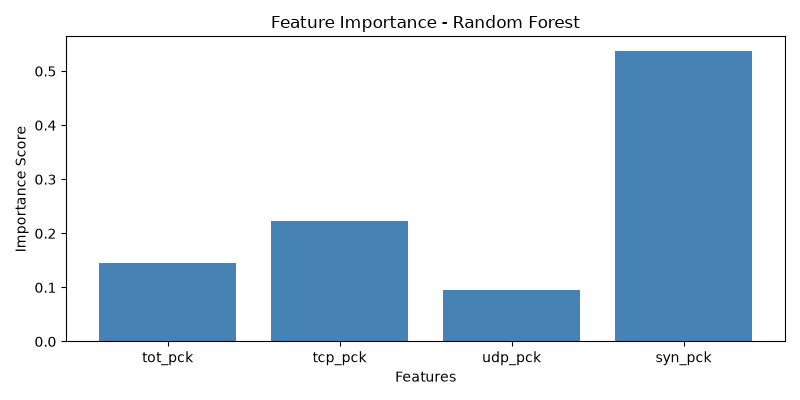
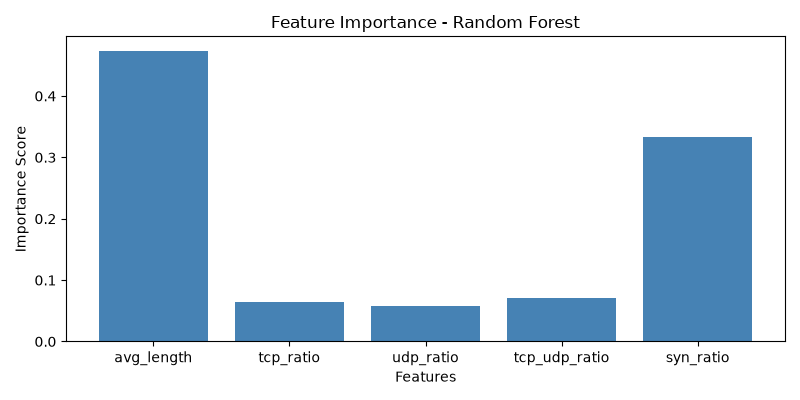
update: control plane function

diff --git a/control_plane/sdn_controller.py b/control_plane/sdn_controller.py
@@ -3,7 +3,10 @@ import threading
 import time
 import os
 import csv
+import socket
 from datetime import datetime
+from collections import Counter
+from scapy.all import sniff, IP, TCP
 
 from scapy_headers import DDoSReport
 from ml_pipeline.predict import TrafficPredictor
@@ -11,7 +14,6 @@ from ml_pipeline.predict import TrafficPredictor
 CONTROLLER_IP = '0.0.0.0'
 CONTROLLER_PORT = 50000
 
-# 🔴 BIẾN ĐIỀU KHIỂN THU THẬP DATASET 🔴
 # Đổi thành 'Benign' khi chạy traffic sạch. Đổi thành 'Syn' khi bật hping3.
 CURRENT_SCENARIO = 'Benign' 
 # Đổi thành False nếu bạn đã thu thập đủ data và chỉ muốn Controller chạy AI bảo vệ
@@ -23,9 +25,6 @@ protected_lock = threading.Lock()
 
 predictor = TrafficPredictor(model_path='ml_pipeline/random_forest.pkl', time_window=1.0, attack_thresh=0.6)
 
-# ════════════════════════════════════════════════════════════
-# PHẦN 1: HÀM HỖ TRỢ (GHI DATASET & RATE LIMIT)
-# ════════════════════════════════════════════════════════════
 def log_to_csv(report_dict, label):
     """Ghi trực tiếp Telemetry từ Switch ra file CSV để làm Dataset"""
     # Đảm bảo thư mục dataset tồn tại
@@ -37,10 +36,11 @@ def log_to_csv(report_dict, label):
         writer = csv.writer(f)
         # Ghi header nếu file mới
         if not file_exists:
-            writer.writerow(['tot_pck', 'tcp_pck', 'udp_pck', 'syn_pck', 'Label'])
+            writer.writerow(['tot_pck', 'tot_bytes', 'tcp_pck', 'udp_pck', 'syn_pck', 'Label'])
             
         writer.writerow([
             report_dict['tot_pck'], 
+            report_dict['tot_bytes'],
             report_dict['tcp_pck'], 
             report_dict['udp_pck'], 
             report_dict['syn_pck'], 
@@ -48,9 +48,10 @@ def log_to_csv(report_dict, label):
         ])
 
 def apply_rate_limit(victim_ip):
-    """Đẩy rule Rate Limiting xuống P4 Switch để cứu Server"""
+    """Push Rate Limiting rule down to P4 Switch"""
     with protected_lock:
         if victim_ip in protected_servers:
+            print(f"  [i] Máy chủ {victim_ip} đang được bảo vệ bởi Rate Limit.")
             return 
         protected_servers.add(victim_ip)
 
@@ -62,9 +63,33 @@ def apply_rate_limit(victim_ip):
     os.system(cmd_table)
     os.system(cmd_meter)
 
-# ════════════════════════════════════════════════════════════
-# PHẦN 2: THREAD QUẢN LÝ THỜI GIAN (WINDOW WORKER)
-# ════════════════════════════════════════════════════════════
+def identify_victim_dpi():
+    """Listening the real packets to trace the victim IP"""
+    print("  Kích hoạt Deep Packet Inspection (DPI)...")
+    print("  [+] Đang bắt 100 gói tin SYN để phân tích chùm tia tấn công...")
+
+    try:
+        # If simulate by P4-Switch (not by scapy_headers emulator) --> remove the attribute iface="lo" 
+        packets = sniff(iface="lo", filter="tcp[tcpflags] & (tcp-syn) != 0", count=50, timeout=3)
+
+        if not packets:
+            print("  [!] Không bắt được gói SYN nào trong mạng.")
+            return None
+
+        # IP extraction
+        dst_ips = [packet[IP].dst for packet in packets if IP in packet]
+
+        if dst_ips:
+            ip_counts = Counter(dst_ips)
+            victim_ip = ip_counts.most_common(1)[0][0]
+
+            print(f"  🎯 TRUY VẾT THÀNH CÔNG: Lưu lượng SYN nhắm vào {victim_ip}!")
+            return victim_ip
+        return None
+    except Exception as e:
+        print(f"  [-] Lỗi trong quá trình DPI: {e}")
+        return None
+
 def window_worker():
     """Luồng chạy ngầm, gọi bộ não ML mỗi giây để hỏi kết quả"""
     while True:
@@ -77,17 +102,17 @@ def window_worker():
         now = datetime.now().strftime('%H:%M:%S')
         print(f"\n[{now}] ── KẾT QUẢ PHÂN TÍCH ───────────────────")
         print(f"  Trạng thái   : {result['label']}")
-        print(f"  Tỷ lệ độc hại: {result['attack_ratio']}% (Trực thuộc {result['sample_count']} báo cáo)")
+        print(f"  Tỷ lệ độc hại: {result['attack_ratio']}% ")
 
         # Nếu có tấn công, ra lệnh bóp băng thông
-        if result['label'] == 'Attack' and result['victim_ip']:
-            print(f"  🚨 PHÁT HIỆN SYN FLOOD!")
-            print(f"  🎯 IP Nạn nhân: {result['victim_ip']}")
-            apply_rate_limit(result['victim_ip'])
+        if result['label'] == 'Attack':
+            print(f"  🚨 PHÁT HIỆN DẪU HIỆU SYN FLOOD!")
 
-# ════════════════════════════════════════════════════════════
-# PHẦN 3: LẮNG NGHE MẠNG (MAIN LISTENER)
-# ════════════════════════════════════════════════════════════
+            victim_ip = identify_victim_dpi()
+            if victim_ip:
+                apply_rate_limit(victim_ip)
+
+
 def start_controller():
     # 1. Bật luồng phân tích ngầm
     t = threading.Thread(target=window_worker, daemon=True)
@@ -117,10 +142,10 @@ def start_controller():
                 report_dict = {
                     'switch_id': report.switch_id,
                     'tot_pck'  : report.tot_pck,
+                    'tot_bytes': report.tot_bytes,
                     'tcp_pck'  : report.tcp_pck,
                     'udp_pck'  : report.udp_pck,
                     'syn_pck'  : report.syn_pck,
-                    'dst_ip'   : report.dst_ip,
                 }
                 
                 # ─── GHI DATASET NẾU ĐƯỢC BẬT ───
@@ -132,7 +157,7 @@ def start_controller():
                 predictor.add_telemetry(report_dict)
                 
             except Exception:
-                pass # Bỏ qua rác
+                pass
 
         except KeyboardInterrupt:
             print("\n⛔ Tắt Controller.")

diff --git a/control_plane/scapy_headers.py b/control_plane/scapy_headers.py
@@ -1,11 +1,9 @@
-from scapy.all import Packet, bind_layers, UDP, IP, send
+from scapy.all import Packet, bind_layers, UDP, TCP, IP, Ether, send, sendp
 from scapy.fields import IntField, ShortField, IPField
 import time
 import random
+import threading 
 
-# ════════════════════════════════════════════════════════════
-# PHẦN 1: TỪ ĐIỂN DỊCH THUẬT GÓI TIN TỪ P4
-# ════════════════════════════════════════════════════════════
 class DDoSReport(Packet):
     """
     Cấu trúc bản tin Telemetry từ P4 Switch (Tổng 16 Bytes).
@@ -14,26 +12,35 @@ class DDoSReport(Packet):
     name = "P4_Telemetry_Report"
     
     fields_desc = [
-        IntField("switch_id", 1),         # 4 Bytes: ID Switch
-        ShortField("tot_pck", 0),         # 2 Bytes: Tổng số gói
-        ShortField("tcp_pck", 0),         # 2 Bytes: TCP
-        ShortField("udp_pck", 0),         # 2 Bytes: UDP
-        ShortField("syn_pck", 0),         # 2 Bytes: SYN
-        IPField("dst_ip", "0.0.0.0")      # 4 Bytes: IP của Server nạn nhân
+        IntField("switch_id", 1),         # 4 Bytes
+        ShortField("tot_pck", 0),         # 2 Bytes
+        IntField("tot_bytes", 0),         # 4 Bytes
+        ShortField("tcp_pck", 0),         # 2 Bytes
+        ShortField("udp_pck", 0),         # 2 Bytes
+        ShortField("syn_pck", 0)          # 2 Bytes
     ]
 
 # Báo cho Scapy biết: Cứ UDP Port 50000 thì ruột bên trong là DDoSReport
 bind_layers(UDP, DDoSReport, dport=50000)
 
+def shoot_real_syn_packets(victim_ip):
+    """
+    Hàm này tạo ra các gói tin TCP SYN THỰC TẾ bay trong mạng ảo.
+    Mục đích: Làm 'mồi' cho hàm sniff() (Giai đoạn DPI) của Controller vợt được.
+    """
+    try:
+        pkt = Ether()/IP(dst=victim_ip)/TCP(dport=80, flags="S")
+        sendp(pkt, iface="lo", inter=0.01, count=500, verbose=False)
+    except Exception as e:
+        print(f"[!] Lỗi bắn SYN: {e}")  
 
-# ════════════════════════════════════════════════════════════
-# PHẦN 2: CÔNG CỤ TEST (TRAFFIC GENERATOR)
-# ════════════════════════════════════════════════════════════
 def generate_fake_telemetry(controller_ip="127.0.0.1", port=50000):
     print(f"\n{'='*55}")
     print("🚀 BẮT ĐẦU KỊCH BẢN GIẢ LẬP TRAFFIC TỪ P4 SWITCH")
     print(f"{'='*55}\n")
     
+    victim_ip = "10.0.0.5"
+
     try:
         counter = 0
         while True:
@@ -43,6 +50,7 @@ def generate_fake_telemetry(controller_ip="127.0.0.1", port=50000):
             if counter <= 5:
                 print(f"[+] Giây {counter}: Người dùng bình thường đang lướt web...")
                 tot = random.randint(100, 600)
+                t_bytes = tot * random.randint(500, 1200) 
                 udp = random.randint(5, 50)
                 tcp = tot - udp
                 syn = int(tcp * random.uniform(0.01, 0.05)) # Tỷ lệ SYN rất thấp
@@ -53,23 +61,26 @@ def generate_fake_telemetry(controller_ip="127.0.0.1", port=50000):
                     print("\n🚨 CẢNH BÁO: HACKER BẮT ĐẦU BẮN SYN FLOOD!\n")
                 print(f"[!] Giây {counter}: Gửi bão SYN Flood -> Nạn nhân 10.0.0.5")
                 tot = random.randint(1500, 3000)
+                t_bytes = tot * random.randint(60, 80)
                 udp = random.randint(0, 10)
                 tcp = tot - udp
                 syn = int(tcp * random.uniform(0.85, 0.98)) # Tỷ lệ SYN cực cao
 
+                threading.Thread(target=shoot_real_syn_packets, args=(victim_ip,), daemon=True).start()
+
             fake_report = DDoSReport(
                 switch_id = 1,
                 tot_pck   = tot,
+                tot_bytes = t_bytes,
                 tcp_pck   = tcp,
                 udp_pck   = udp,
                 syn_pck   = syn, 
-                dst_ip    = "10.0.0.5"
             )
             
             pkt = IP(dst=controller_ip) / UDP(dport=port) / fake_report
             send(pkt, verbose=False)
             
-            time.sleep(10) # Chuẩn hóa: 1 giây Switch gửi báo cáo 1 lần
+            time.sleep(1) # Chuẩn hóa: 1 giây Switch gửi báo cáo 1 lần
             
     except KeyboardInterrupt:
         print("\n🛑 Đã dừng công cụ giả lập.")

diff --git a/control_plane/ml_pipeline/predict.py b/control_plane/ml_pipeline/predict.py
@@ -5,10 +5,10 @@ import time
 import threading
 
 class TrafficPredictor:
-    def __init__(self, model_path='random_forest.pkl', time_window=1.0, attack_thresh=0.6):
+    def __init__(self, model_path='random_forest.pkl', time_window=1.0, attack_thresh=0.8):
         self.time_window   = time_window
         self.attack_thresh = attack_thresh
-        self.features      = ['tot_pck', 'tcp_pck', 'udp_pck', 'syn_pck']
+        self.features      = ['avg_length', 'tcp_ratio', 'udp_ratio', 'tcp_udp_ratio', 'syn_ratio']
 
         self.buffer      = []
         self.buffer_lock = threading.Lock()
@@ -22,27 +22,35 @@ class TrafficPredictor:
             exit(1)
 
     def add_telemetry(self, report_dict):
-        """Nhận 1 báo cáo Time-Window từ P4, đưa vào buffer"""
+        """Receive time-window P4-Switch report then saved to buffer"""
         with self.buffer_lock:
             self.buffer.append({**report_dict, 'timestamp': time.time()})
 
     def analyze_window(self):
         """
-        Gom tất cả báo cáo trong time_window giây.
-        Đưa ra kết luận tổng thể + tìm victim_ip.
+        Analyze the time-window report to decide based-on time frame T
         """
         now = time.time()
 
         with self.buffer_lock:
-            # Chỉ giữ báo cáo trong time_window giây gần nhất
-            window = [r for r in self.buffer
-                      if now - r['timestamp'] <= self.time_window]
-            self.buffer[:] = window  # xóa báo cáo cũ
+            # window stored the reports which have timestamp in the time frame
+            window = [report for report in self.buffer
+                      if now - report['timestamp'] <= self.time_window]
+            self.buffer[:] = window  # override the buffer to delete the outdated data
 
         if not window:
             return None
 
-        df          = pd.DataFrame(window)
+        # convert to dataframe
+        df = pd.DataFrame(window)
+
+        # FEATURE ENGINEERING
+        df['avg_length'] = df['tot_bytes'] / (df['tot_pck'] + 1e-9)
+        df['tcp_ratio'] = df['tcp_pck'] / (df['tot_pck'] + 1e-9)
+        df['udp_ratio'] = df['udp_pck'] / (df['tot_pck'] + 1e-9)
+        df['tcp_udp_ratio'] = df['tcp_pck'] / (df['udp_pck'] + 1e-9)
+        df['syn_ratio'] = df['syn_pck'] / (df['tot_pck'] + 1e-9)
+        
         features_df = df[self.features].copy() 
 
         predictions = self.model.predict(features_df)
@@ -51,18 +59,9 @@ class TrafficPredictor:
         attack_ratio = float(np.mean(predictions))
         is_attack    = attack_ratio >= self.attack_thresh
 
-        # Tìm victim_ip bị tấn công nhiều nhất
-        victim_ip = None
-        if is_attack and 'dst_ip' in df.columns:
-            # Chỉ lấy các flow bị predict là Attack
-            attack_rows = df[predictions == 1]
-            if not attack_rows.empty:
-                victim_ip = attack_rows['dst_ip'].mode()[0]
-
         return {
             'label'        : 'Attack' if is_attack else 'Benign',
             'attack_ratio' : round(attack_ratio * 100, 2),
             'avg_p_attack' : round(float(np.mean(probas[:, 1])) * 100, 2),
             'sample_count' : len(window),
-            'victim_ip'    : victim_ip,
         }

diff --git a/control_plane/ml_pipeline/generate_dataset.py b/control_plane/ml_pipeline/generate_dataset.py
@@ -28,8 +28,17 @@ benign_udp = np.random.randint(5, 50, NUM_BENIGN)
 benign_tcp = np.maximum(benign_tot - benign_udp, 0)
 benign_syn = (benign_tcp * benign_syn_ratio).astype(int)
 
+# Mạng bình thường có kèm dữ liệu (Payload) nên gói tin khá to (500 - 1200 bytes/gói)
+benign_avg_len = np.random.randint(500, 1200, NUM_BENIGN)
+benign_bytes = benign_tot * benign_avg_len
+
 benign_df = pd.DataFrame({
-    'tot_pck': benign_tot, 'tcp_pck': benign_tcp, 'udp_pck': benign_udp, 'syn_pck': benign_syn, 'Label': 'Benign'
+    'tot_pck': benign_tot, 
+    'tot_bytes': benign_bytes,
+    'tcp_pck': benign_tcp, 
+    'udp_pck': benign_udp, 
+    'syn_pck': benign_syn, 
+    'Label': 'Benign'
 })
 
 print("🚀 Đang tạo tập SYN Flood (Có Botnet ngụy trang)...")
@@ -52,8 +61,17 @@ attack_udp = np.random.randint(0, 20, NUM_ATTACK)
 attack_tcp = np.maximum(attack_tot - attack_udp, 0)
 attack_syn = (attack_tcp * attack_syn_ratio).astype(int)
 
+# Gói tin SYN Flood thường là gói rỗng chỉ chứa Header để tối đa tốc độ (60 - 80 bytes/gói)
+attack_avg_len = np.random.randint(60, 80, NUM_ATTACK)
+attack_bytes = attack_tot * attack_avg_len
+
 attack_df = pd.DataFrame({
-    'tot_pck': attack_tot, 'tcp_pck': attack_tcp, 'udp_pck': attack_udp, 'syn_pck': attack_syn, 'Label': 'Syn'
+    'tot_pck': attack_tot, 
+    'tot_bytes': attack_bytes,
+    'tcp_pck': attack_tcp, 
+    'udp_pck': attack_udp, 
+    'syn_pck': attack_syn, 
+    'Label': 'Syn'
 })
 
 # --- TRỘN VÀ CHIA DATASET ---

diff --git a/control_plane/ml_pipeline/train_model.py b/control_plane/ml_pipeline/train_model.py
@@ -15,7 +15,20 @@ label_mapping = {'Benign': 0, 'Syn': 1}
 df_train['Label'] = df_train['Label'].map(label_mapping)
 df_test['Label'] = df_test['Label'].map(label_mapping)
 
-features = ['tot_pck', 'tcp_pck', 'udp_pck', 'syn_pck']
+def extract_features(df):
+    # adding 1e-9 prevent 0 division
+    df['avg_length'] = df['tot_bytes'] / (df['tot_pck'] + 1e-9)
+    df['tcp_ratio'] = df['tcp_pck'] / (df['tot_pck'] + 1e-9)
+    df['udp_ratio'] = df['udp_pck'] / (df['tot_pck'] + 1e-9)
+    df['tcp_udp_ratio'] = df['tcp_pck'] / (df['udp_pck'] + 1e-9)
+    df['syn_ratio'] = df['syn_pck'] / (df['tot_pck'] + 1e-9)
+    return df
+
+print("Feature Engineering...")
+df_train = extract_features(df_train)
+df_test = extract_features(df_test)
+
+features = ['avg_length', 'tcp_ratio', 'udp_ratio', 'tcp_udp_ratio', 'syn_ratio']
 
 X_train = df_train[features]
 y_train = df_train['Label']
@@ -61,5 +74,3 @@ print(df_train['syn_pck'].value_counts())
 model_filename = 'random_forest.pkl'
 joblib.dump(rf_model, model_filename)
 print(f"\nTraining successfully! Saved to: {model_filename}")
-
-print(df_train[features].describe())